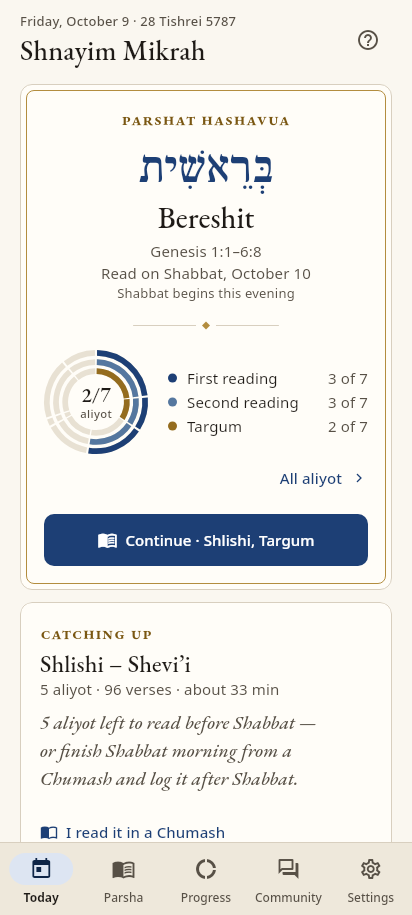
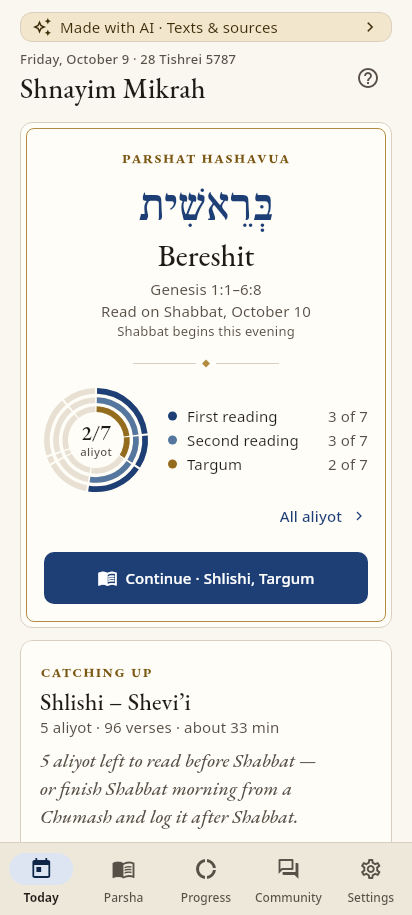
Keep the AI notice visible without hiding the reader's first action
The notice's strip is one tappable line at the top of Today, and its
semantics are the link's own, as the Sources card's are. Where the page
is laid out at large text, the title page is built once it is scrolled
toward, so the tests scroll before they look for the rest day's button.

The About page no longer repeats the Texts & sources row its notice sits
above. The navigation tests scroll to Today's buttons first, as a reader
does. The screenshots of Today and the install dialog show the strip, and
the pre-release notes open with the disclosure, then the preview.

Claude-Session: https://claude.ai/code/session_01FpCxE3pusCE35YFjz4NtTU

diff --git a/test/app/navigation_test.dart b/test/app/navigation_test.dart
@@ -659,6 +659,9 @@ void main() {
 
     testWidgets('opened from Today shows the week in its place, within Today', (tester) async {
       await _pump(tester);
+      // On a phone, below the strip that says the app was made with AI.
+      await Scrollable.ensureVisible(tester.element(find.widgetWithText(FilledButton, 'Start · Rishon')), alignment: 0.1);
+      await tester.pumpAndSettle();
       await tester.tap(find.widgetWithText(FilledButton, 'Start · Rishon'));
       await _loadTexts(tester);
       expect(find.byType(ReaderScreen), findsOneWidget);
@@ -700,6 +703,9 @@ void main() {
         }
       }
       await _pump(tester, progress: ProgressState(weeks: {'5787:1': week}));
+      // On a phone, below the strip that says the app was made with AI.
+      await Scrollable.ensureVisible(tester.element(find.widgetWithText(FilledButton, 'Continue · Shevi’i')), alignment: 0.1);
+      await tester.pumpAndSettle();
       await tester.tap(find.widgetWithText(FilledButton, 'Continue · Shevi’i'));
       await _loadTexts(tester);
       await tester.tap(find.byTooltip('More options'));
@@ -707,6 +713,9 @@ void main() {
       await tester.tap(find.text('Mark this aliyah as read'));
       await tester.pumpAndSettle();
 
+      // On a phone, below the strip that says the app was made with AI.
+      await Scrollable.ensureVisible(tester.element(find.widgetWithText(FilledButton, 'Read the haftarah')), alignment: 0.1);
+      await tester.pumpAndSettle();
       await tester.tap(find.widgetWithText(FilledButton, 'Read the haftarah'));
       await _loadTexts(tester);
       expect(find.byType(HaftarahScreen), findsOneWidget);
@@ -746,6 +755,9 @@ void main() {
       await tester.tap(find.text('Mark this aliyah as read'));
       await tester.pumpAndSettle();
 
+      // On a phone, below the strip that says the app was made with AI.
+      await Scrollable.ensureVisible(tester.element(find.widgetWithText(FilledButton, 'Read the haftarah')), alignment: 0.1);
+      await tester.pumpAndSettle();
       await tester.tap(find.widgetWithText(FilledButton, 'Read the haftarah'));
       await _loadTexts(tester);
       expect(find.byType(HaftarahScreen), findsOneWidget);

diff --git a/lib/features/about/ai_notice.dart b/lib/features/about/ai_notice.dart
@@ -25,24 +25,26 @@ class AiSourcesNotice extends StatelessWidget {
     final scheme = theme.colorScheme;
     final ink = scheme.onSecondaryContainer;
     if (compact) {
+      // One link, read by its own words: the label and the link on the node
+      // that holds the tap, with the strip's text left out of the reading.
       return Card(
         color: scheme.secondaryContainer,
         child: Semantics(
-          // The strip is one link, read by its own words.
           link: true,
           label: l.aiNoticeStrip,
-          excludeSemantics: true,
           child: SeferInkWell(
             onTap: () => context.push('/settings/about/sources'),
             child: Padding(
               padding: const EdgeInsets.symmetric(horizontal: Space.md, vertical: Space.xs),
-              child: Row(
-                children: [
-                  Icon(Icons.auto_awesome_outlined, size: 20, color: ink),
-                  const Gap(Space.sm),
-                  Expanded(child: Text(l.aiNoticeStrip, style: theme.textTheme.bodyMedium?.copyWith(color: ink))),
-                  Icon(Icons.chevron_right, size: 20, color: ink),
-                ],
+              child: ExcludeSemantics(
+                child: Row(
+                  children: [
+                    Icon(Icons.auto_awesome_outlined, size: 20, color: ink),
+                    const Gap(Space.sm),
+                    Expanded(child: Text(l.aiNoticeStrip, style: theme.textTheme.bodyMedium?.copyWith(color: ink))),
+                    Icon(Icons.chevron_right, size: 20, color: ink),
+                  ],
+                ),
               ),
             ),
           ),

diff --git a/test/accessibility/screens_a11y_test.dart b/test/accessibility/screens_a11y_test.dart
@@ -178,7 +178,14 @@ void main() {
       expect(tester.takeException(), isNull);
       expectWholeWords(tester);
       final open = find.text(hebrew ? 'לפרשה' : 'Open the parsha');
-      expect(tester.getRect(open).top, greaterThan(640), reason: 'below the screen at first');
+      // The strip that says the app was made with AI and the header fill the
+      // first screen, so the title page is laid out only once the page is
+      // scrolled toward it: below the screen at first, and reached by scrolling.
+      if (open.evaluate().isNotEmpty) {
+        expect(tester.getRect(open).top, greaterThan(640), reason: 'below the screen at first');
+      }
+      await tester.drag(find.byType(Scrollable).first, const Offset(0, -300));
+      await tester.pumpAndSettle();
       await tester.scrollUntilVisible(open, 200, scrollable: find.byType(Scrollable).first);
       await tester.pumpAndSettle();
       expect(tester.takeException(), isNull);

diff --git a/test/app/prerelease_workflow_test.dart b/test/app/prerelease_workflow_test.dart
@@ -398,7 +398,9 @@ void main() {
     test('its notes say what the preview is, how to install it, and what to keep in mind', () {
       final notes = File('.github/prerelease_notes.md').readAsStringSync();
       expect(run('release', 'The notes'), contains('.github/prerelease_notes.md > "\$RUNNER_TEMP/notes.md"'));
-      expect(notes, startsWith('A preview of Shnayim Mikrah'));
+      // The disclosure that the preview was made with AI comes first, then the preview.
+      expect(notes, startsWith('> **Made with AI.**'));
+      expect(notes, contains('\nA preview of Shnayim Mikrah'));
       expect(notes, contains('```powershell\n$oneLiner\n```'));
       for (final file in ['windows-x64.msi', 'windows-x64.zip', 'android-webapp.apk']) {
         expect(notes, contains('ShnayimMikrah-{{VERSION}}-$file'));

diff --git a/lib/features/about/about_screen.dart b/lib/features/about/about_screen.dart
@@ -80,7 +80,8 @@ class _AboutScreenState extends ConsumerState<AboutScreen> with HeadingReveal<Ab
         children: [
           _AboutHeader(nameKey: headingKey),
           const Gap(Space.lg),
-          const AiSourcesNotice(),
+          // The row for Texts & sources sits just below, so the notice does not repeat it.
+          const AiSourcesNotice(linkToSources: false),
           // On the web, a new version of the app, under the version open:
           // offered here while it waits, though put away on Today.
           if (ref.watch(webUpdateReadyProvider)) ...[

diff --git a/lib/l10n/app_localizations_he.dart b/lib/l10n/app_localizations_he.dart
@@ -4022,5 +4022,5 @@ class AppLocalizationsHe extends AppLocalizations {
   String get verseCheckOnSefaria => 'בדיקת הפסוק בספריא';
 
   @override
-  String get aiNoticeStrip => 'נכתב בעזרת בינה מלאכותית · מאיפה בא הנוסח';
+  String get aiNoticeStrip => 'נכתב בעזרת בינה מלאכותית · מקורות הנוסח';
 }

diff --git a/lib/l10n/app_localizations.dart b/lib/l10n/app_localizations.dart
@@ -6228,7 +6228,7 @@ abstract class AppLocalizations {
   /// The one-line strip at the top of Today: that the app was made with AI, and that the sources are a tap away.
   ///
   /// In en, this message translates to:
-  /// **'Made with AI · Where the texts come from'**
+  /// **'Made with AI · Texts & sources'**
   String get aiNoticeStrip;
 }
 

diff --git a/lib/l10n/app_localizations_en.dart b/lib/l10n/app_localizations_en.dart
@@ -4020,5 +4020,5 @@ class AppLocalizationsEn extends AppLocalizations {
   String get verseCheckOnSefaria => 'Check this verse on Sefaria';
 
   @override
-  String get aiNoticeStrip => 'Made with AI · Where the texts come from';
+  String get aiNoticeStrip => 'Made with AI · Texts & sources';
 }

diff --git a/tool/l10n/he_strings.py b/tool/l10n/he_strings.py
@@ -1022,5 +1022,5 @@ HE = {
   "sourcesManifestAction": "טביעות דיגיטליות של כל הקבצים",
   "sourcesManifestDescription": "SOURCES.json מפרט כל קובץ מקור עם כתובתו בספריא וטביעתו הדיגיטלית, וכל קובץ שהאפליקציה מכילה עם טביעתו. הורידו מקור, חשבו את טביעתו והשוו.",
   "verseCheckOnSefaria": "בדיקת הפסוק בספריא",
-  "aiNoticeStrip": "נכתב בעזרת בינה מלאכותית · מאיפה בא הנוסח",
+  "aiNoticeStrip": "נכתב בעזרת בינה מלאכותית · מקורות הנוסח",
 }
